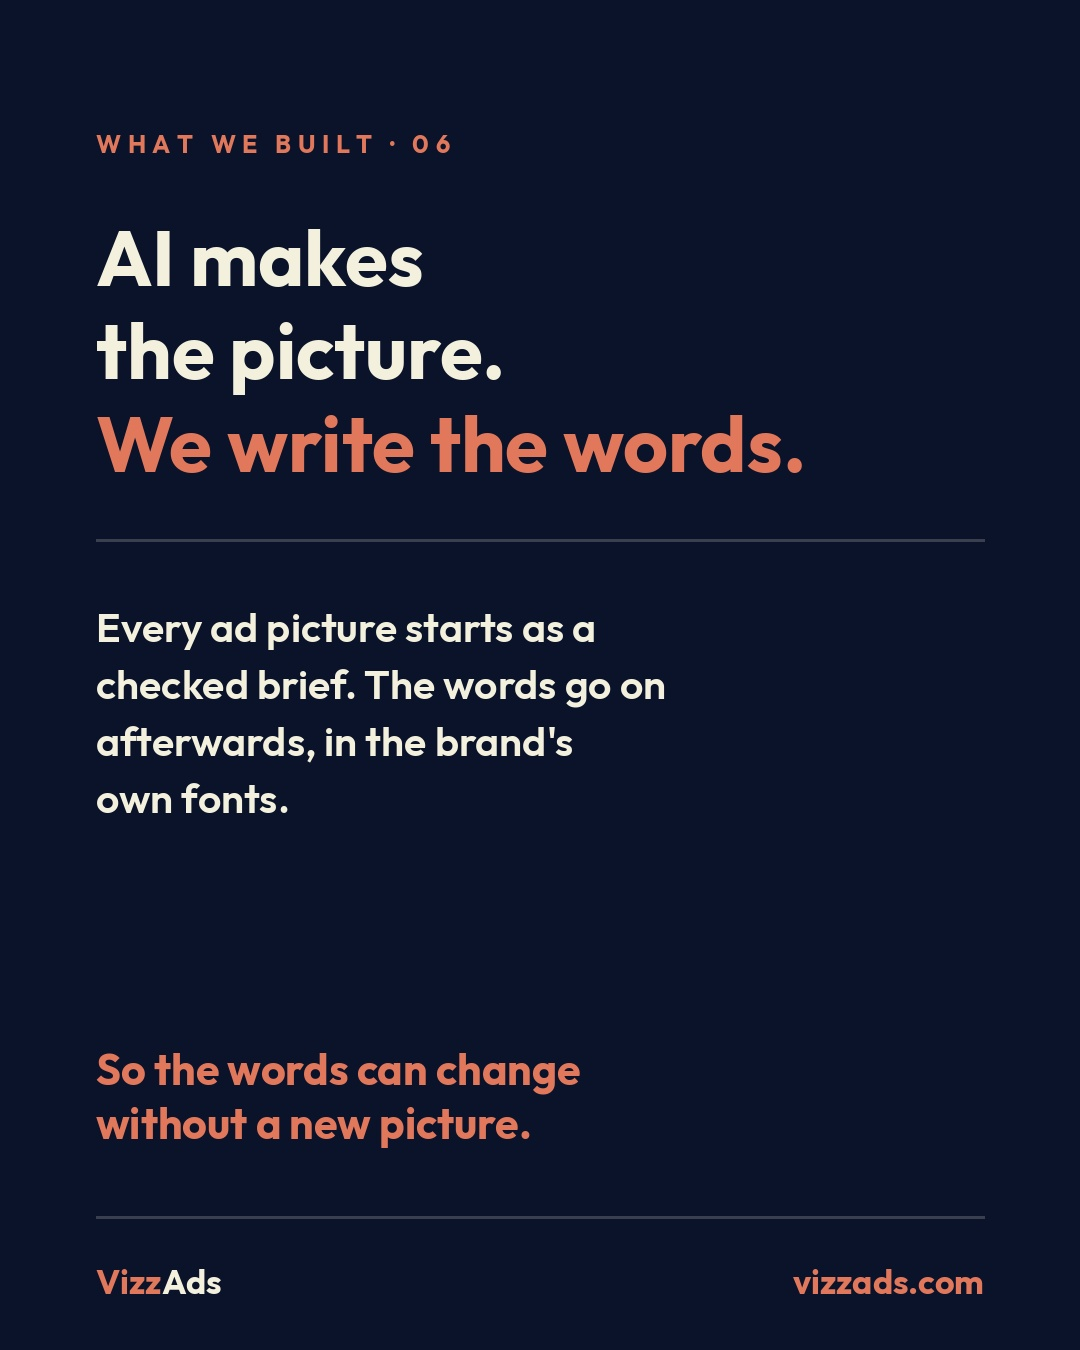
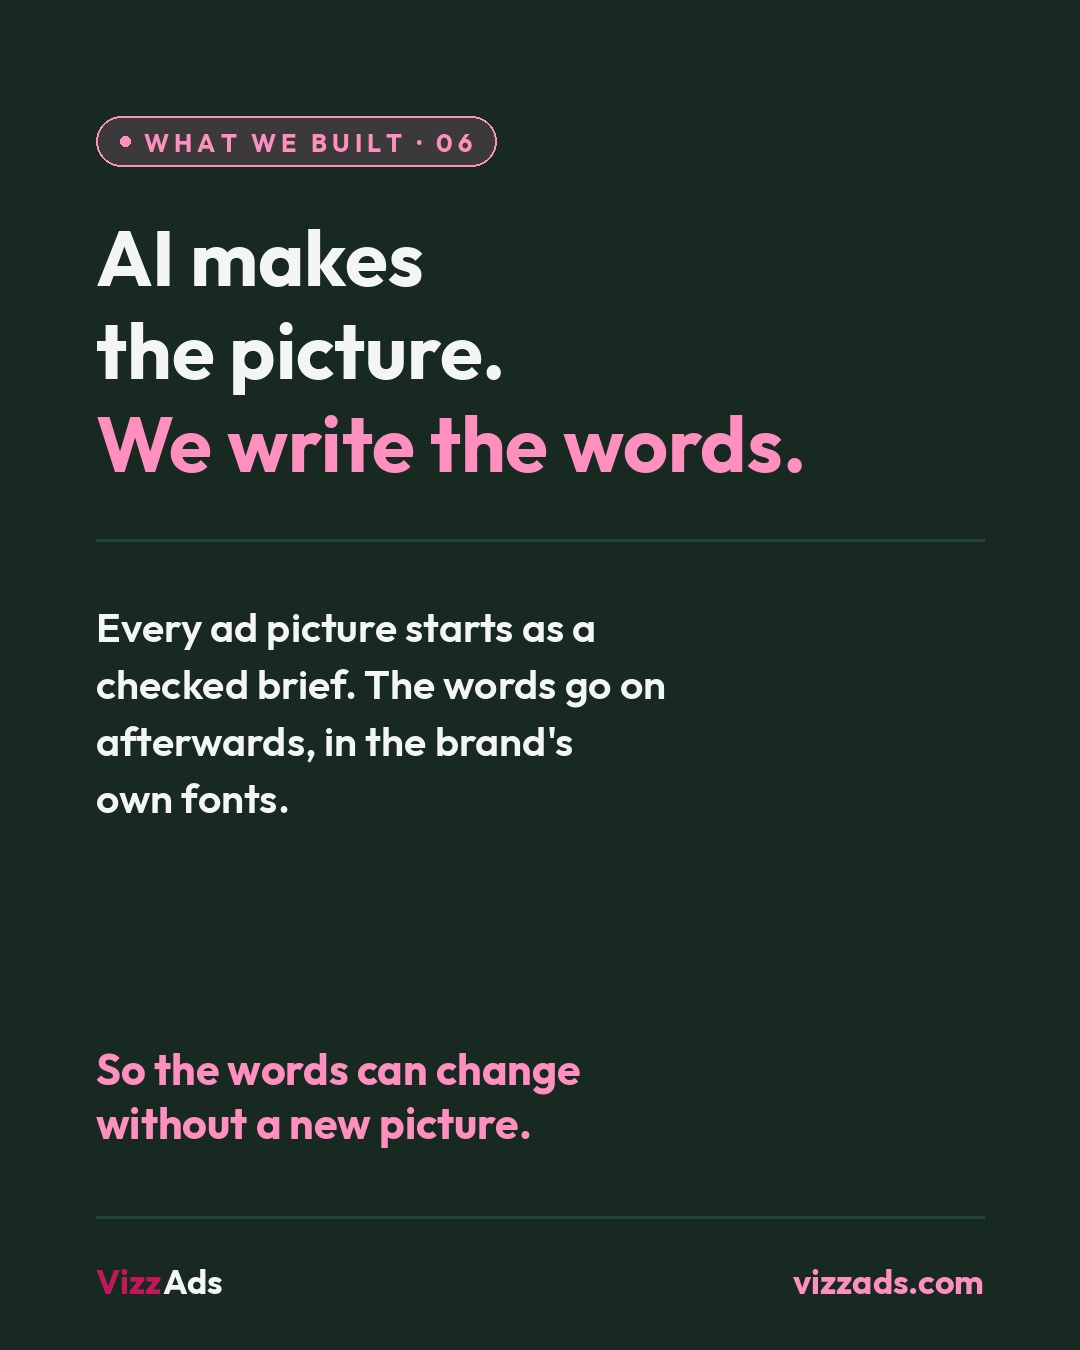
New brand colours (green & pink, 26 Nov): builder updated; 10 scheduled posts (27 Nov-4 Dec) re-rendered. Published posts unchanged. 27 Nov script rebuilt (pixel-identical in old colours).
Claude-Session: https://claude.ai/code/session_013sqAKa6H7mk5yCfZBxaW9u

diff --git a/tools/cards/vizz_cards.py b/tools/cards/vizz_cards.py
@@ -1,9 +1,12 @@
-"""Vizz Ads card builder (launch-pack style). 1080x1350 JPEG.
+"""Vizz Ads card builder (green & pink brand colours, 26 Nov 2026) (launch-pack style). 1080x1350 JPEG.
 Rebuilt 20 Nov from the week-1 builder (project doc claude/social-creative-builder-week1.py)."""
 import os
 from PIL import Image, ImageDraw, ImageFont
 
-NAVY, CREAM, CORAL = (11, 19, 43), (243, 240, 221), (225, 120, 91)
+# Brand colours (agreed 26 Nov 2026). Use nothing else.
+FOREST, CARD, SAGE = (24, 41, 33), (36, 68, 55), (78, 115, 99)
+OFFWHITE, DAYTINT, WHITE = (243, 246, 243), (232, 239, 235), (255, 255, 255)
+PINK, DEEPPINK = (255, 143, 191), (194, 24, 91)
 W, H, M = 1080, 1350, 96
 FONTS = os.path.join(os.path.dirname(os.path.abspath(__file__)), "fonts")
 WEIGHT = {"600": "SemiBold", "700": "Bold", "400": "Regular"}
@@ -24,19 +27,67 @@ def tracked(d, xy, text, fnt, fill, trk=0):
         x += d.textlength(ch, font=fnt) + trk
 
 
+def palette(name):
+    """'navy' (and 'dark') = dark theme; 'cream' (and 'light') = light theme."""
+    if name in ("navy", "dark"):
+        return dict(dark=True, bg=FOREST, fg=OFFWHITE, accent=PINK, closing=PINK,
+                    muted=mix(FOREST, OFFWHITE, 0.70), line=CARD, frame=CARD,
+                    url=PINK, pill_text=PINK, pill_fill=mix(FOREST, PINK, 0.16))
+    return dict(dark=False, bg=OFFWHITE, fg=FOREST, accent=FOREST, closing=FOREST,
+                muted=SAGE, line=DAYTINT, frame=SAGE,
+                url=FOREST, pill_text=FOREST, pill_fill=mix(OFFWHITE, PINK, 0.18))
+
+
 def theme(name):
-    return (NAVY, CREAM) if name == "navy" else (CREAM, NAVY)
+    p = palette(name)
+    return p["bg"], p["fg"]
 
 
-def footer(d, bg, fg):
+def background(name, gradient=False):
+    """Plain background, or Card Green -> Forest Green for dark hero/offer posts."""
+    p = palette(name)
+    img = Image.new("RGB", (W, H), p["bg"])
+    if gradient and p["dark"]:
+        d = ImageDraw.Draw(img)
+        for yy in range(H):
+            d.line([(0, yy), (W, yy)], fill=mix(CARD, FOREST, yy / (H - 1)))
+    return img
+
+
+def pill(d, x, y, text, name):
+    """ALL CAPS label: pink-tint pill, Vizz Pink border, pink dot."""
+    p = palette(name)
+    f = font("700", 25)
+    tw = sum(d.textlength(ch, font=f) + 5.0 for ch in text) - 5.0
+    h, padx, dot = 50, 24, 10
+    w = padx + dot + 14 + tw + padx
+    d.rounded_rectangle([(x, y), (x + w, y + h)], radius=h // 2, fill=p["pill_fill"], outline=PINK, width=2)
+    cx, cy = x + padx + dot // 2, y + h // 2
+    d.ellipse([(cx - dot // 2, cy - dot // 2), (cx + dot // 2, cy + dot // 2)], fill=PINK)
+    tracked(d, (x + padx + dot + 14, y + 11), text, f, p["pill_text"], 5.0)
+
+
+def highlight(d, xy, text, fnt, name):
+    """Key headline line: Vizz Pink on dark; Forest Green + pink stripe on light."""
+    p = palette(name)
+    x, y = xy
+    if not p["dark"]:
+        l, t, r, b = d.textbbox((x, y), text, font=fnt)
+        mid = t + (b - t) * 0.52
+        d.rectangle([(l - 6, mid), (r + 6, b + 4)], fill=PINK)
+    d.text((x, y), text, font=fnt, fill=p["accent"])
+
+
+def footer(d, name):
+    p = palette(name)
     fy = 1216
-    d.rectangle([(M, fy), (W - M, fy + 2)], fill=mix(bg, fg, 0.20))
+    d.rectangle([(M, fy), (W - M, fy + 2)], fill=p["line"])
     f = font("700", 34)
     by = fy + 44
-    d.text((M, by), "Vizz", font=f, fill=CORAL)
-    d.text((M + d.textlength("Vizz", font=f), by), "Ads", font=f, fill=fg)
+    d.text((M, by), "Vizz", font=f, fill=DEEPPINK)
+    d.text((M + d.textlength("Vizz", font=f) + 1, by), "Ads", font=f, fill=p["fg"])
     u = "vizzads.com"
-    d.text((W - M - d.textlength(u, font=f), by), u, font=f, fill=CORAL)
+    d.text((W - M - d.textlength(u, font=f), by), u, font=f, fill=p["url"])
 
 
 def check_width(d, lines, fnt):
@@ -45,38 +96,45 @@ def check_width(d, lines, fnt):
 
 
 def card(path, tname, eyebrow, head, coral_last=None, body=None, closing=None,
-         head_size=78, items=None, number=None):
-    """head: list of lines (navy/cream); coral_last: final headline line in coral."""
-    bg, fg = theme(tname)
-    img = Image.new("RGB", (W, H), bg)
+         head_size=78, items=None, number=None, gradient=False):
+    """head: lines in the main text colour; coral_last: the highlighted last line
+    (Vizz Pink on dark, Forest Green + pink stripe on light). gradient: dark hero/offer posts."""
+    p = palette(tname)
+    img = background(tname, gradient)
     d = ImageDraw.Draw(img)
-    tracked(d, (M, 128), eyebrow, font("700", 25), CORAL, 6.5)
+    pill(d, M, 116, eyebrow, tname)
     if number:
         fnum = font("700", 25)
-        tracked(d, (W - M - d.textlength(number, font=fnum) - 10, 128), number, fnum,
-                mix(bg, fg, 0.45), 4)
+        tracked(d, (W - M - d.textlength(number, font=fnum) - 10, 128), number, fnum, p["muted"], 4)
 
     fh = font("700", head_size)
     lh = int(head_size * 1.2)
     check_width(d, head + ([coral_last] if coral_last else []), fh)
     y = 208
     for ln in head:
-        d.text((M, y), ln, font=fh, fill=fg)
+        d.text((M, y), ln, font=fh, fill=p["fg"])
         y += lh
     if coral_last:
-        d.text((M, y), coral_last, font=fh, fill=CORAL)
+        highlight(d, (M, y), coral_last, fh, tname)
         y += lh
 
     ry = y + 52
-    d.rectangle([(M, ry), (W - M, ry + 2)], fill=mix(bg, fg, 0.20))
+    d.rectangle([(M, ry), (W - M, ry + 2)], fill=p["line"])
     y = ry + 62
 
     if items:
         fn, fi = font("700", 23), font("600", 44)
         check_width(d, [" " * 6 + i for i in items], fi)
         for i, label in enumerate(items, 1):
-            tracked(d, (M, y + 14), "%02d" % i, fn, CORAL, 3.0)
-            d.text((M + 88, y), label, font=fi, fill=fg)
+            num = "%02d" % i
+            if p["dark"]:
+                tracked(d, (M, y + 14), num, fn, PINK, 3.0)
+            else:
+                cx, cy, r = M + 24, y + 29, 27
+                d.ellipse([(cx - r, cy - r), (cx + r, cy + r)], fill=PINK)
+                tw = d.textlength(num, font=fn) + 3.0
+                tracked(d, (cx - tw / 2, cy - 15), num, fn, FOREST, 3.0)
+            d.text((M + 88, y), label, font=fi, fill=p["fg"])
             y += 96
         y += 20
 
@@ -84,7 +142,7 @@ def card(path, tname, eyebrow, head, coral_last=None, body=None, closing=None,
         fb = font("600", 41)
         check_width(d, body, fb)
         for ln in body:
-            d.text((M, y), ln, font=fb, fill=fg)
+            d.text((M, y), ln, font=fb, fill=p["fg"])
             y += 57
         y += 40
 
@@ -93,25 +151,26 @@ def card(path, tname, eyebrow, head, coral_last=None, body=None, closing=None,
         check_width(d, closing, fc)
         cy = max(y, 1150 - 54 * len(closing))
         for ln in closing:
-            d.text((M, cy), ln, font=fc, fill=CORAL)
+            d.text((M, cy), ln, font=fc, fill=p["closing"])
             cy += 54
         assert cy <= 1200, "closing overruns footer: " + path
 
     assert y <= 1200, "body overruns footer: " + path
-    footer(d, bg, fg)
+    footer(d, tname)
     os.makedirs(os.path.dirname(path), exist_ok=True)
     img.convert("RGB").save(path, "JPEG", quality=95)  # JPEG: Meta's API needs it
     print("wrote", os.path.basename(path))
 
 
 def showcase(path, tname, eyebrow, head, coral_last=None, shot=None, crop=None,
-             caption="Sample report for a made-up brand", head_size=66):
+             caption="Sample report for a made-up brand", head_size=66, gradient=False):
     """Headline at the top, a real report page (or slide) below it in a frame.
     shot: image path; crop: (x0, y0, x1, y1) as fractions of the shot."""
-    bg, fg = theme(tname)
-    img = Image.new("RGB", (W, H), bg)
+    p = palette(tname)
+    bg, fg = p["bg"], p["fg"]
+    img = background(tname, gradient)
     d = ImageDraw.Draw(img)
-    tracked(d, (M, 128), eyebrow, font("700", 25), CORAL, 6.5)
+    pill(d, M, 116, eyebrow, tname)
     fh = font("700", head_size)
     lh = int(head_size * 1.2)
     check_width(d, head + ([coral_last] if coral_last else []), fh)
@@ -120,14 +179,14 @@ def showcase(path, tname, eyebrow, head, coral_last=None, shot=None, crop=None,
         d.text((M, y), ln, font=fh, fill=fg)
         y += lh
     if coral_last:
-        d.text((M, y), coral_last, font=fh, fill=CORAL)
+        highlight(d, (M, y), coral_last, fh, tname)
         y += lh
     top = y + 40
     cap_h = 52
     bottom = 1180 - cap_h
     if isinstance(shot, (list, tuple)):
-        _stack(img, d, bg, fg, shot, top, bottom, caption)
-        footer(d, bg, fg)
+        _stack(img, d, tname, shot, top, bottom, caption)
+        footer(d, tname)
         os.makedirs(os.path.dirname(path), exist_ok=True)
         img.save(path, "JPEG", quality=95)
         print("wrote", os.path.basename(path))
@@ -148,27 +207,29 @@ def showcase(path, tname, eyebrow, head, coral_last=None, shot=None, crop=None,
     shadow = shadow.filter(ImageFilter.GaussianBlur(9))
     img.paste(shadow, (x - 12, top - 12))
     img.paste(sh, (x, top))
-    d.rectangle([(x - 1, top - 1), (x + sh.width, top + sh.height)], outline=mix(bg, fg, 0.25), width=2)
+    d.rectangle([(x - 1, top - 1), (x + sh.width, top + sh.height)], outline=p["frame"], width=2)
     if caption:
         fcap = font("600", 26)
-        d.text((x, top + sh.height + 18), caption, font=fcap, fill=mix(bg, fg, 0.55))
-    footer(d, bg, fg)
+        d.text((x, top + sh.height + 18), caption, font=fcap, fill=p["muted"])
+    footer(d, tname)
     os.makedirs(os.path.dirname(path), exist_ok=True)
     img.save(path, "JPEG", quality=95)
     print("wrote", os.path.basename(path))
 
 
-def _frame(img, d, bg, fg, sh, x, y):
+def _frame(img, d, tname, sh, x, y):
+    p = palette(tname)
+    bg = p["bg"]
     from PIL import ImageFilter
     shadow = Image.new("RGB", (sh.width + 40, sh.height + 40), bg)
     ImageDraw.Draw(shadow).rectangle([(20, 26), (sh.width + 20, sh.height + 26)], fill=mix(bg, (0, 0, 0), 0.4))
     shadow = shadow.filter(ImageFilter.GaussianBlur(10))
     img.paste(shadow, (x - 20, y - 20))
     img.paste(sh, (x, y))
-    d.rectangle([(x - 1, y - 1), (x + sh.width, y + sh.height)], outline=mix(bg, fg, 0.25), width=2)
+    d.rectangle([(x - 1, y - 1), (x + sh.width, y + sh.height)], outline=p["frame"], width=2)
 
 
-def _stack(img, d, bg, fg, shots, top, bottom, caption):
+def _stack(img, d, tname, shots, top, bottom, caption):
     """Two landscape slides, the second overlapping lower right, like a deck."""
     a, b = [Image.open(s).convert("RGB") for s in shots]
     box_w, box_h = W - 2 * M, bottom - top
@@ -178,7 +239,7 @@ def _stack(img, d, bg, fg, shots, top, bottom, caption):
     if dy < sh_h * 0.45:  # keep at least half of slide 1 visible
         sh_h = int(box_h / 1.45); sw = int(sh_h * a.width / a.height); dy = box_h - sh_h
     a = a.resize((sw, sh_h), Image.LANCZOS); b = b.resize((sw, sh_h), Image.LANCZOS)
-    _frame(img, d, bg, fg, a, M, top)
-    _frame(img, d, bg, fg, b, W - M - sw, top + dy)
+    _frame(img, d, tname, a, M, top)
+    _frame(img, d, tname, b, W - M - sw, top + dy)
     if caption:
-        d.text((M, top + box_h + 18), caption, font=font("600", 26), fill=mix(bg, fg, 0.55))
+        d.text((M, top + box_h + 18), caption, font=font("600", 26), fill=palette(tname)["muted"])

diff --git a/tools/cards/build_google.py b/tools/cards/build_google.py
@@ -56,7 +56,7 @@ card(p % 2, "navy", "WHAT WE LEARNED",
      ["One search"], coral_last="proves nothing.",
      items=["Dates matched to the day", "Every search run 3 times",
             "Ad blocker off for every check", "Performance Max, seen in public"],
-     closing=["Free, on Meta or Google:", "vizzads.com/competitor-ad-check"])
+     closing=["Free, on Meta or Google:", "vizzads.com/competitor-ad-check"], gradient=True)
 
 # ---- THU 3 DEC · slide 2 now says Meta, Google or both (cream first unchanged)
 p = R + "2026-12-03-free-first-step/03dec-free-first-step-%d.jpg"
@@ -70,7 +70,7 @@ card(p % 2, "navy", "START HERE",
      ["Three steps,"], coral_last="free first.",
      items=["Free Competitor Ad Check", "Ad Creative Analysis", "Ad Account Deep Audit"],
      body=["Meta, Google or both.", "Start outside your account."],
-     closing=["Start free, in 48 hours:", "vizzads.com/competitor-ad-check"])
+     closing=["Start free, in 48 hours:", "vizzads.com/competitor-ad-check"], gradient=True)
 
 # ---- FRI 4 DEC · Inside a free check, Meta and Google (navy first unchanged)
 p = R + "2026-12-04-inside-the-check/04dec-inside-the-check-%d.jpg"

diff --git a/tools/cards/build_week6_27nov.py b/tools/cards/build_week6_27nov.py
@@ -1,0 +1,16 @@
+"""27 Nov (Black Friday day) — rebuilt 26 Nov from the published images (the week 6 script was lost)."""
+import os, sys
+HERE = os.path.dirname(os.path.abspath(__file__))
+sys.path.insert(0, HERE)
+from vizz_cards import card
+OUT = sys.argv[1] if len(sys.argv) > 1 else os.path.join(HERE, "..", "..", "posts", "2026-11-27-black-friday-day")
+HS = [int(a) for a in sys.argv[2:4]] if len(sys.argv) > 3 else [78, 84]
+p = OUT + "/27nov-black-friday-day-%d.jpg"
+card(p % 1, "cream", "BLACK FRIDAY",
+     ["It's Black Friday."], coral_last="Check these today.", head_size=HS[0],
+     items=["Ads still running?", "Tracking still working?", "Stock still there?"],
+     closing=["Five minutes,", "three times a day."])
+card(p % 2, "navy", "AND THEN",
+     ["Leave the rest"], coral_last="alone.", head_size=HS[1],
+     body=["Don't pause your winners.", "Don't launch new ideas today.", "Keep some budget for", "Cyber Monday."],
+     closing=["Good luck today."])
